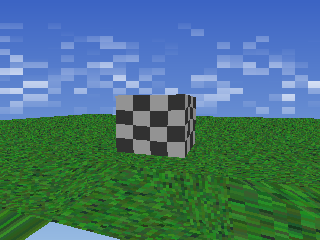
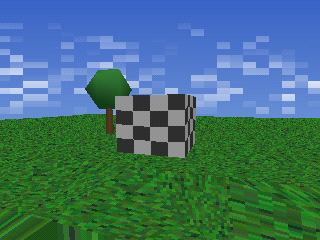
docs: roadmap complete — refresh screenshots, add the tree
scene.png / scene_gpu.png now show the clipped, dithered world with the
Gouraud tree; docs/tree.png is the OBJ close-up. README points at the walk
demos and the new modules.

diff --git a/README.md b/README.md
@@ -13,9 +13,11 @@ paths** that share the same vec math, camera, textures and scene:
   GPU-accelerated. Occlusion is painter's-sort (no z-buffer — exactly how PS1
   hardware ordered primitives), and vertex colors give Gouraud shading for free.
 
-> Status: **early but real.** Both paths render the same walkable scene
-> (textured ground + crate + sky) in an SDL window, in the interpreter and
-> compiled (`hemlockc`), with byte-identical output.
+> Status: **feature-complete for v1.** Both paths render the same walkable
+> scene (textured ground + crate + a Gouraud-lit OBJ tree + sky) in an SDL
+> window, near-plane clipped, in the interpreter and compiled (`hemlockc`),
+> with byte-identical output. The CPU path finishes each frame with the PS1's
+> own 4×4 ordered dither down to 5-bit color.
 
 ## How it works
 
@@ -35,12 +37,15 @@ path packs `SDL_Vertex` arrays (`src/geom.hml`).
 ## Run
 
 ```bash
-# needs a display (DISPLAY set). Interpreter is fine for a demo; compile for speed.
+# needs a display (DISPLAY set). Run from the repo root (assets/ paths).
+# Interpreter is fine for a demo; compile for speed.
 hemlock examples/plasma.hml      # animated plasma — first window smoke test
+hemlock examples/walk.hml        # walk the world, CPU path (Space toggles dither)
+hemlock examples/walk_gpu.hml    # same world through SDL_RenderGeometry
 ```
 
 For a headless box, force SDL's dummy driver to exercise the loop without a
-window: `SDL_VIDEODRIVER=dummy hemlock examples/plasma.hml`.
+window: `SDL_VIDEODRIVER=dummy hemlock examples/walk.hml`.
 
 ## Layout
 
@@ -48,10 +53,15 @@ window: `SDL_VIDEODRIVER=dummy hemlock examples/plasma.hml`.
 |------|------|
 | `src/sdl.hml`        | SDL2 FFI: window, framebuffer `present`, input, plus the GPU path (`upload_texture` / `draw_tris` / `RenderGeometry`) |
 | `src/geom.hml`       | GPU triangle backend — painter's sort + per-texture batching → `SDL_RenderGeometry` |
-| `src/raster.hml`     | CPU rasterizer — affine UV + z-buffer triangle fills |
+| `src/raster.hml`     | CPU rasterizer — affine UV + z-buffer triangle fills (textured + Gouraud) |
+| `src/clip.hml`       | near-plane clip in clip space + the GPU path's screen-space guard band |
+| `src/postfx.hml`     | the PS1 finishing pass: 4×4 ordered dither to 5-bit color (CPU path) |
+| `src/obj.hml`        | Wavefront OBJ loader — all face index forms, usemtl palette, computed smooth normals |
 | `src/scene.hml` / `src/scene_gpu.hml` | the demo world, CPU and GPU renderers |
-| `examples/walk.hml` / `examples/walk_gpu.hml` | real-time walkable scene (CPU / GPU) |
+| `assets/tree.obj`    | hand-built low-poly tree (the Gouraud demo mesh) |
+| `examples/walk.hml` / `examples/walk_gpu.hml` | real-time walkable scene (CPU / GPU; Space toggles dither on the CPU one) |
 | `examples/geom_scene.hml` | GPU render → PNG (headless verification) |
+| `examples/tree_png.hml` | OBJ + Gouraud close-up → PNG |
 
 ## Roadmap
 
@@ -63,10 +73,10 @@ window: `SDL_VIDEODRIVER=dummy hemlock examples/plasma.hml`.
 - [x] input-driven free camera (WASD + arrows), real-time SDL loop
 - [x] sky: gradient + chunky pixelated cloud streaks that pan with the camera (CPU path)
 - [x] GPU backend via `SDL_RenderGeometry` — affine UVs, painter's sort, Gouraud (offloads rasterization, keeps the wobble)
-- [ ] near-plane clipping (fixes the edge artifacts when close to the ground)
+- [x] near-plane clipping — clip-space Sutherland–Hodgman on both paths (no more popping quads at your feet)
 - [x] clouds on the GPU sky — tileable panorama texture panned by yaw, seam-split so UVs stay in [0,1]
-- [ ] retro post-fx (5-bit color + ordered dither, vertex jitter)
-- [ ] OBJ mesh loader + per-vertex Gouraud lighting
+- [x] retro post-fx — the PS1's 4×4 ordered dither to 5-bit color, plus whole-pixel vertex snap (the jitter)
+- [x] OBJ mesh loader + per-vertex Gouraud lighting — smooth normals computed when the file has none
 
 Reached through `@stdlib/math` + FFI only, so it should run under `hemlockc`
 (compiled) as well as the interpreter.
